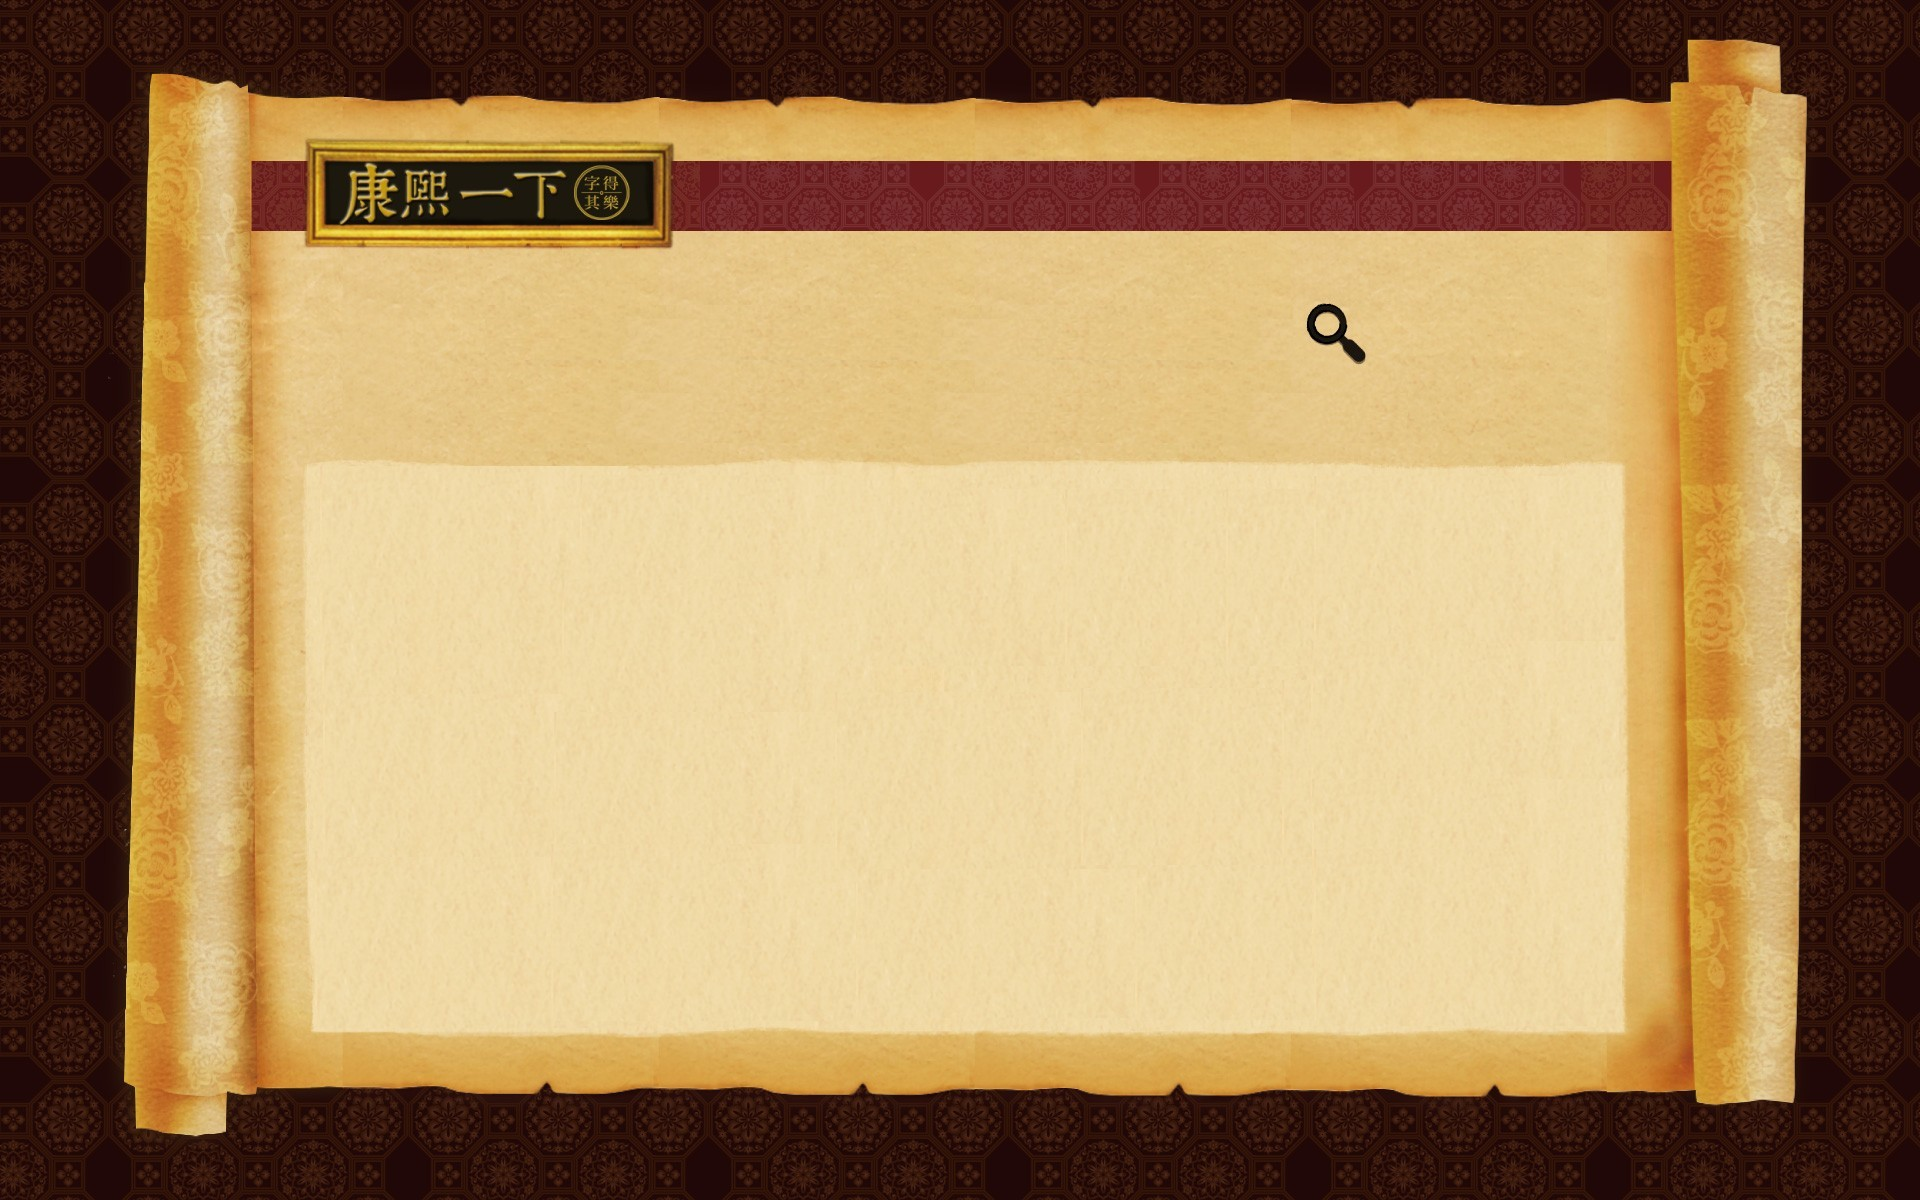
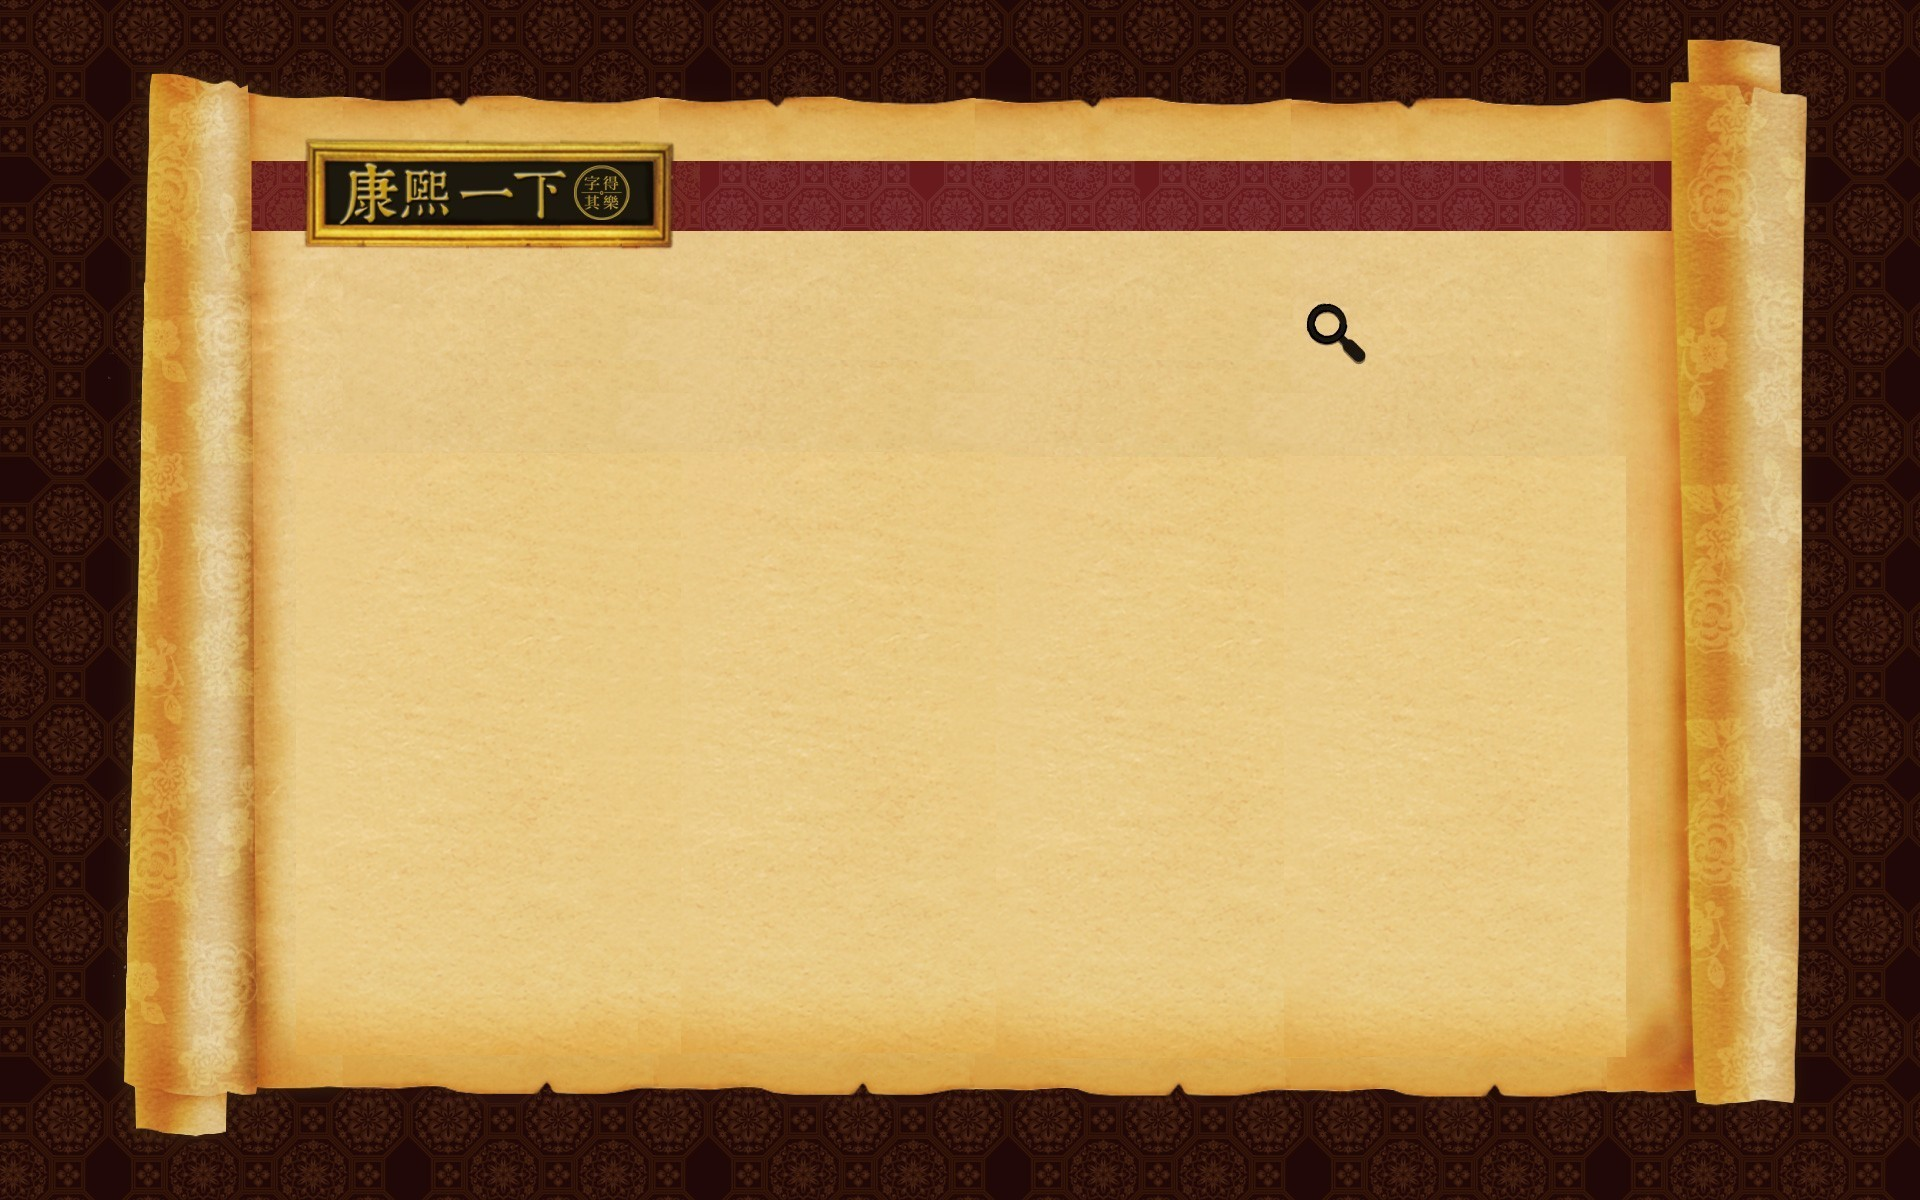
處理 "關於我們" 的部份

diff --git a/kangxi.js b/kangxi.js
@@ -226,7 +226,7 @@ $( document ).ready(function() {
 			$("#main_background").css("background-image", "url(image/main_bg.jpg)");
 			$("div.menu").show();
 			object_location("#tofind", 520,313,752,47);	// 在一開始時, #tofind 還沒產生, 所以這時定位才有用
-			object_location("#tofind", 520,313,720,30);	// 在一開始時, #tofind 還沒產生, 所以這時定位才有用
+			object_location("#tofind", 520,313,720,30);	// 在一開始時, #tofind 還沒產生, 所以這時定位才有用, 而且不知為什麼大小會變大, 所以這行是刻意縮小
 			
 			// 這是先執行鐵口直斷
 			//$("#page1").show();
@@ -499,8 +499,7 @@ $( document ).ready(function() {
 	$("#menu_5").click(
 		function() {
 			hide_all();
-			$("#page14").show();
-			active_page = 14;
+			show_page14();
 	});
 	// 使用說明
 	$("#menu_6").mouseenter(
@@ -971,6 +970,14 @@ function show_page13()
 	return false;
 }
 
+// 呈現 page14 關於我們
+function show_page14()
+{
+	$("#page14").show();
+	active_page = 14;
+	return false;
+}
+
 // 呈現 page15 Readme
 function show_page15()
 {
@@ -1131,6 +1138,9 @@ function window_resize()
 	// 定位康熙字典元件
 	// tofind 輸入欄 (520,313,752,47)
 	// object_location("#tofind", 520,313,752,47); // 此時還沒產生 #tofind , 要稍候才能定位
+	// 背景
+	object_location("#page9_yellowbg", 285,428,1356,624);
+	$("#page9_yellowbg").css("background-size" , 1356 * my_rate);
 	// 選單
 	object_location("#page9_menu_glypheme", 519,394,127,45);
 	$("#page9_menu_glypheme").css("background-size" , 127 * my_rate);
@@ -1155,6 +1165,15 @@ function window_resize()
 	// 數位E筆
 	object_location("#page13", 320,260,1280,800);
 	object_location("#page13_video", 320,260,1280,800);
+	
+	// 關於我們
+	object_location("#page14_king", 430,208,1283,889);
+	$("#page14_king").css("background-size" , 1263 * my_rate);
+	object_location("#page14_msg", 363,296,530,540);
+	$("#page14_msg").css("background-size" , 530 * my_rate);
+	object_location("#page14_link1", 400,330,420,140);
+	object_location("#page14_link2", 400,500,420,120);
+	object_location("#page14_link3", 400,660,420,125);
 }
 
 function object_location(obj,left,top,width,Height)

diff --git a/index.html b/index.html
@@ -83,7 +83,7 @@
     </div>
     <!-- page 9 字典 -------------------------------------------------- -->
 	<div id="page9" class="mainpage">
-		<!-- <img id="img_dict" src="image3/dict.jpg"/> -->
+		<div id="page9_yellowbg"></div>
 		<div data-aura-widget="tofind-widget" id="page9_word"></div>
 		
 		<div id="page9_menu_glypheme" class="dict_menu"></div>
@@ -141,10 +141,13 @@
     
     <!-- page 14 關於我們 ----------------------------------------------------- -->
 	<div id="page14" class="mainpage">
+		<div id="page14_king"></div>
+		<div id="page14_msg"></div>
 		<div id="page14_link1"></div>
 		<div id="page14_link2"></div>
 		<div id="page14_link3"></div>
-    </div>
+	</div>
+    
     
     <!-- page 15 說明 ----------------------------------------------------- -->
 	<div id="page15" class="mainpage">
